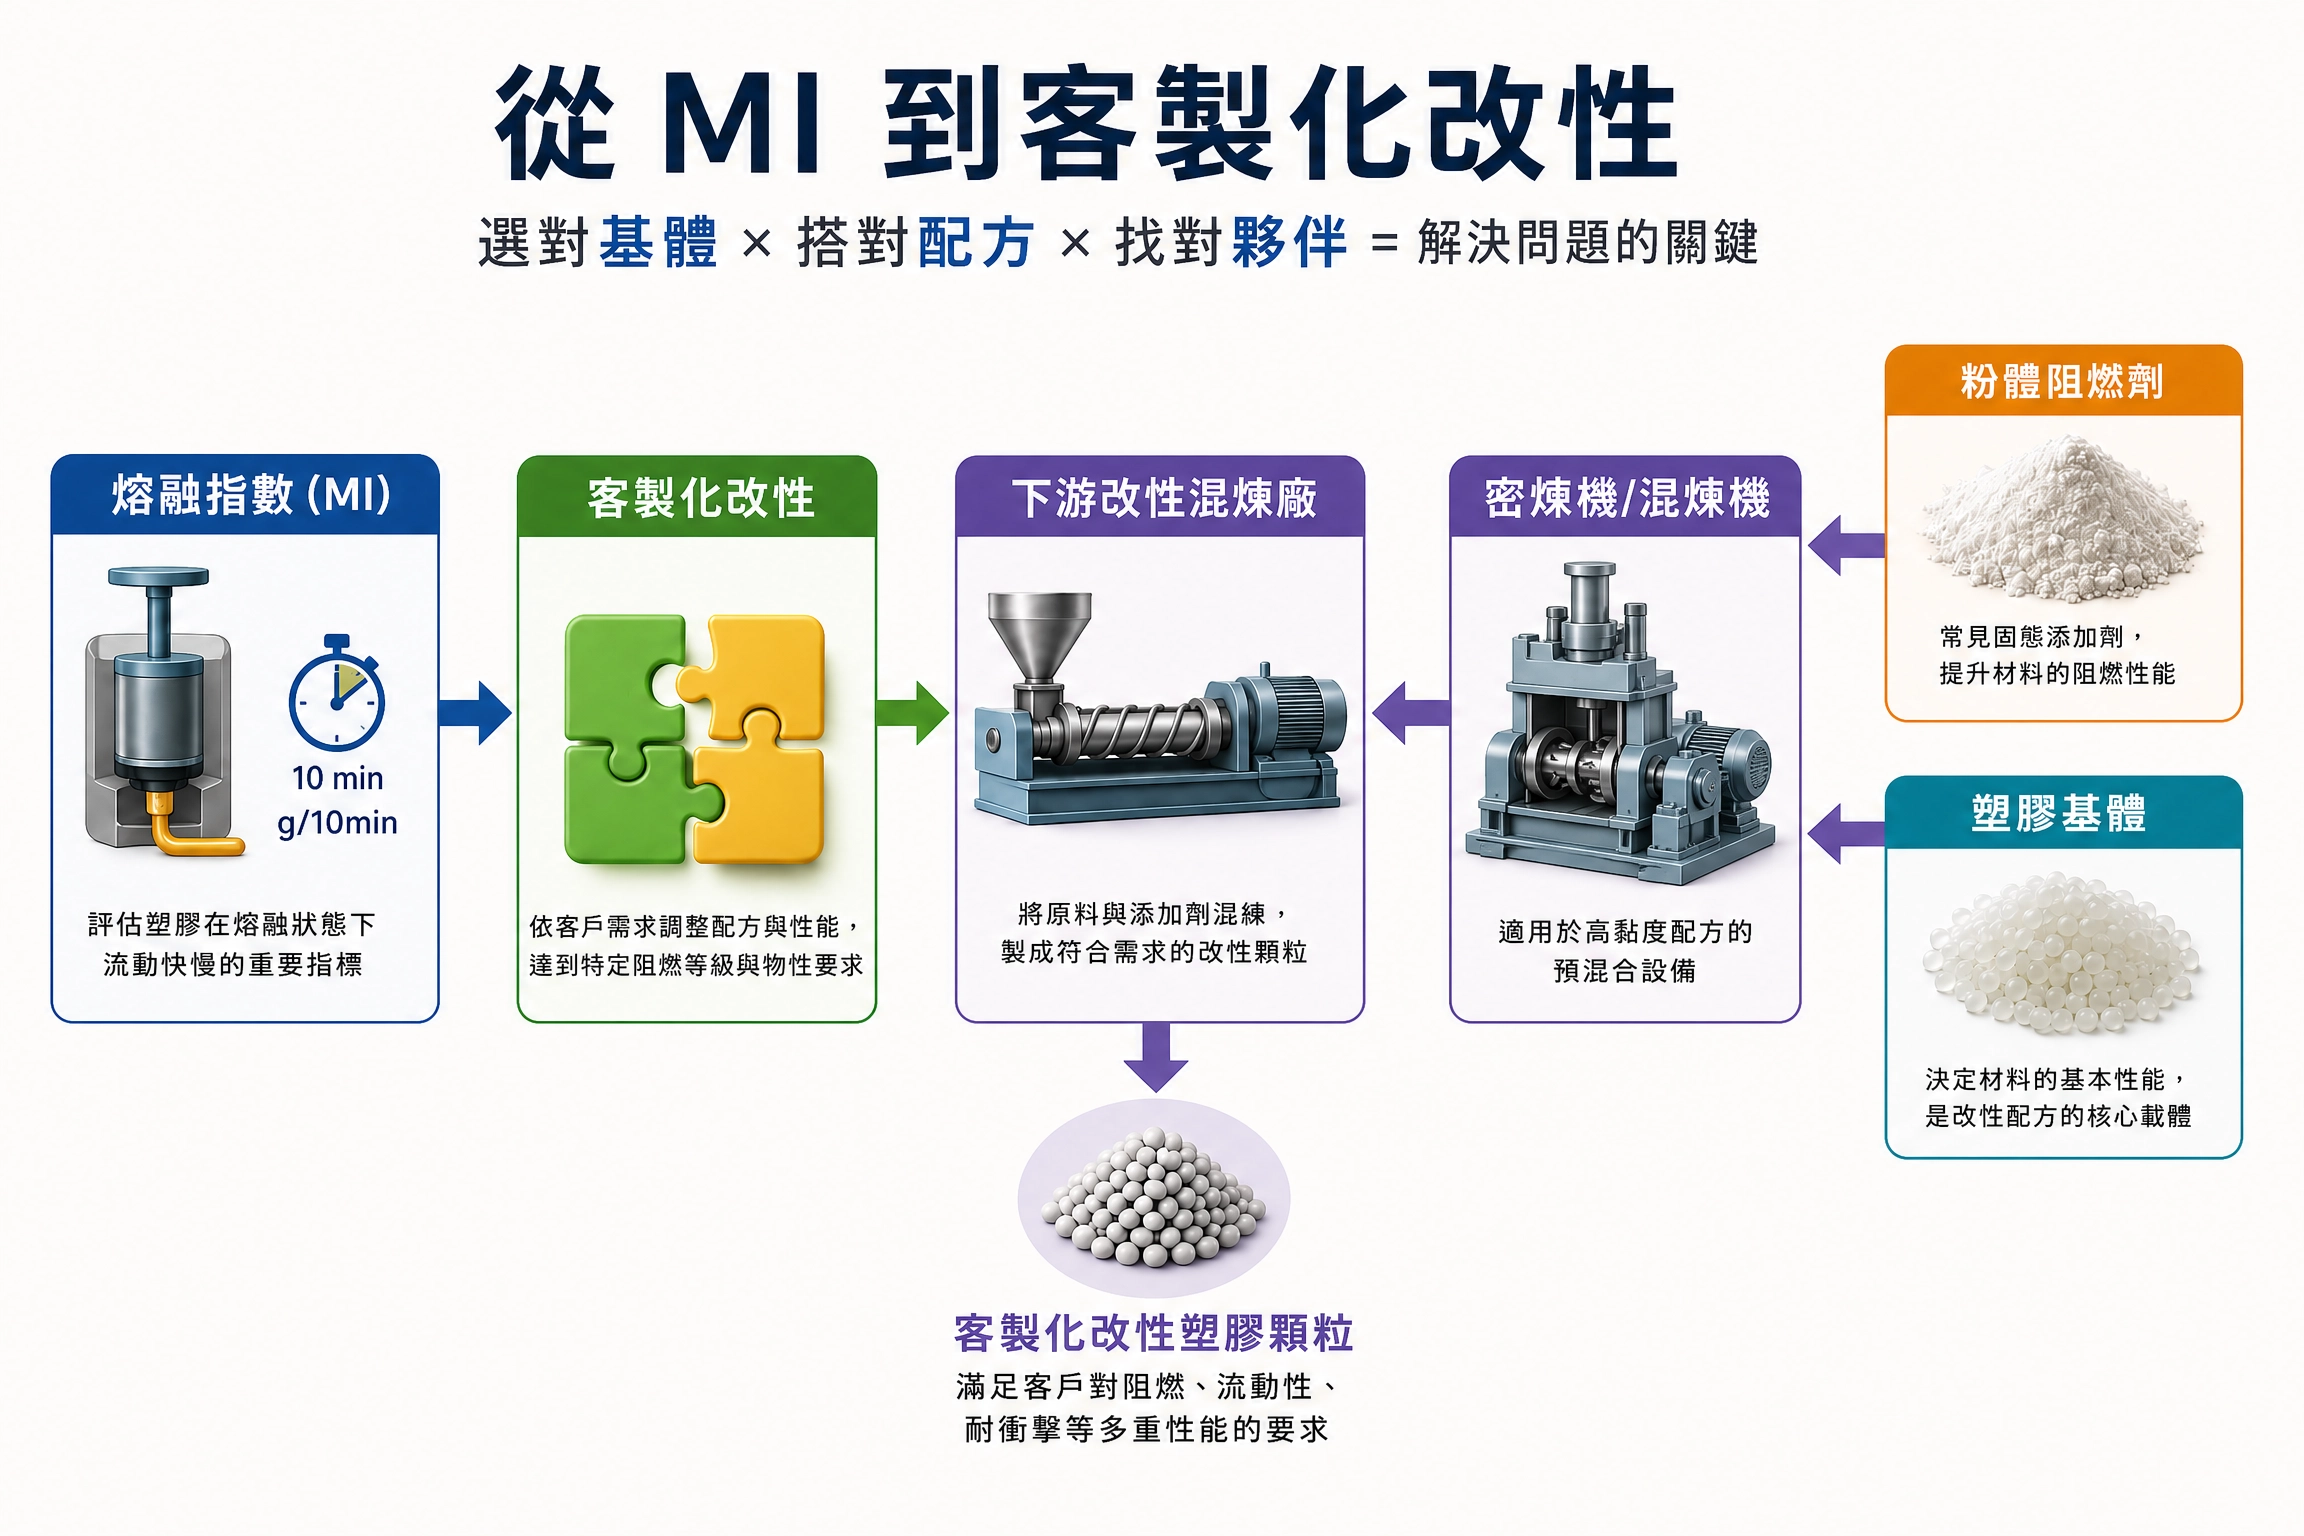
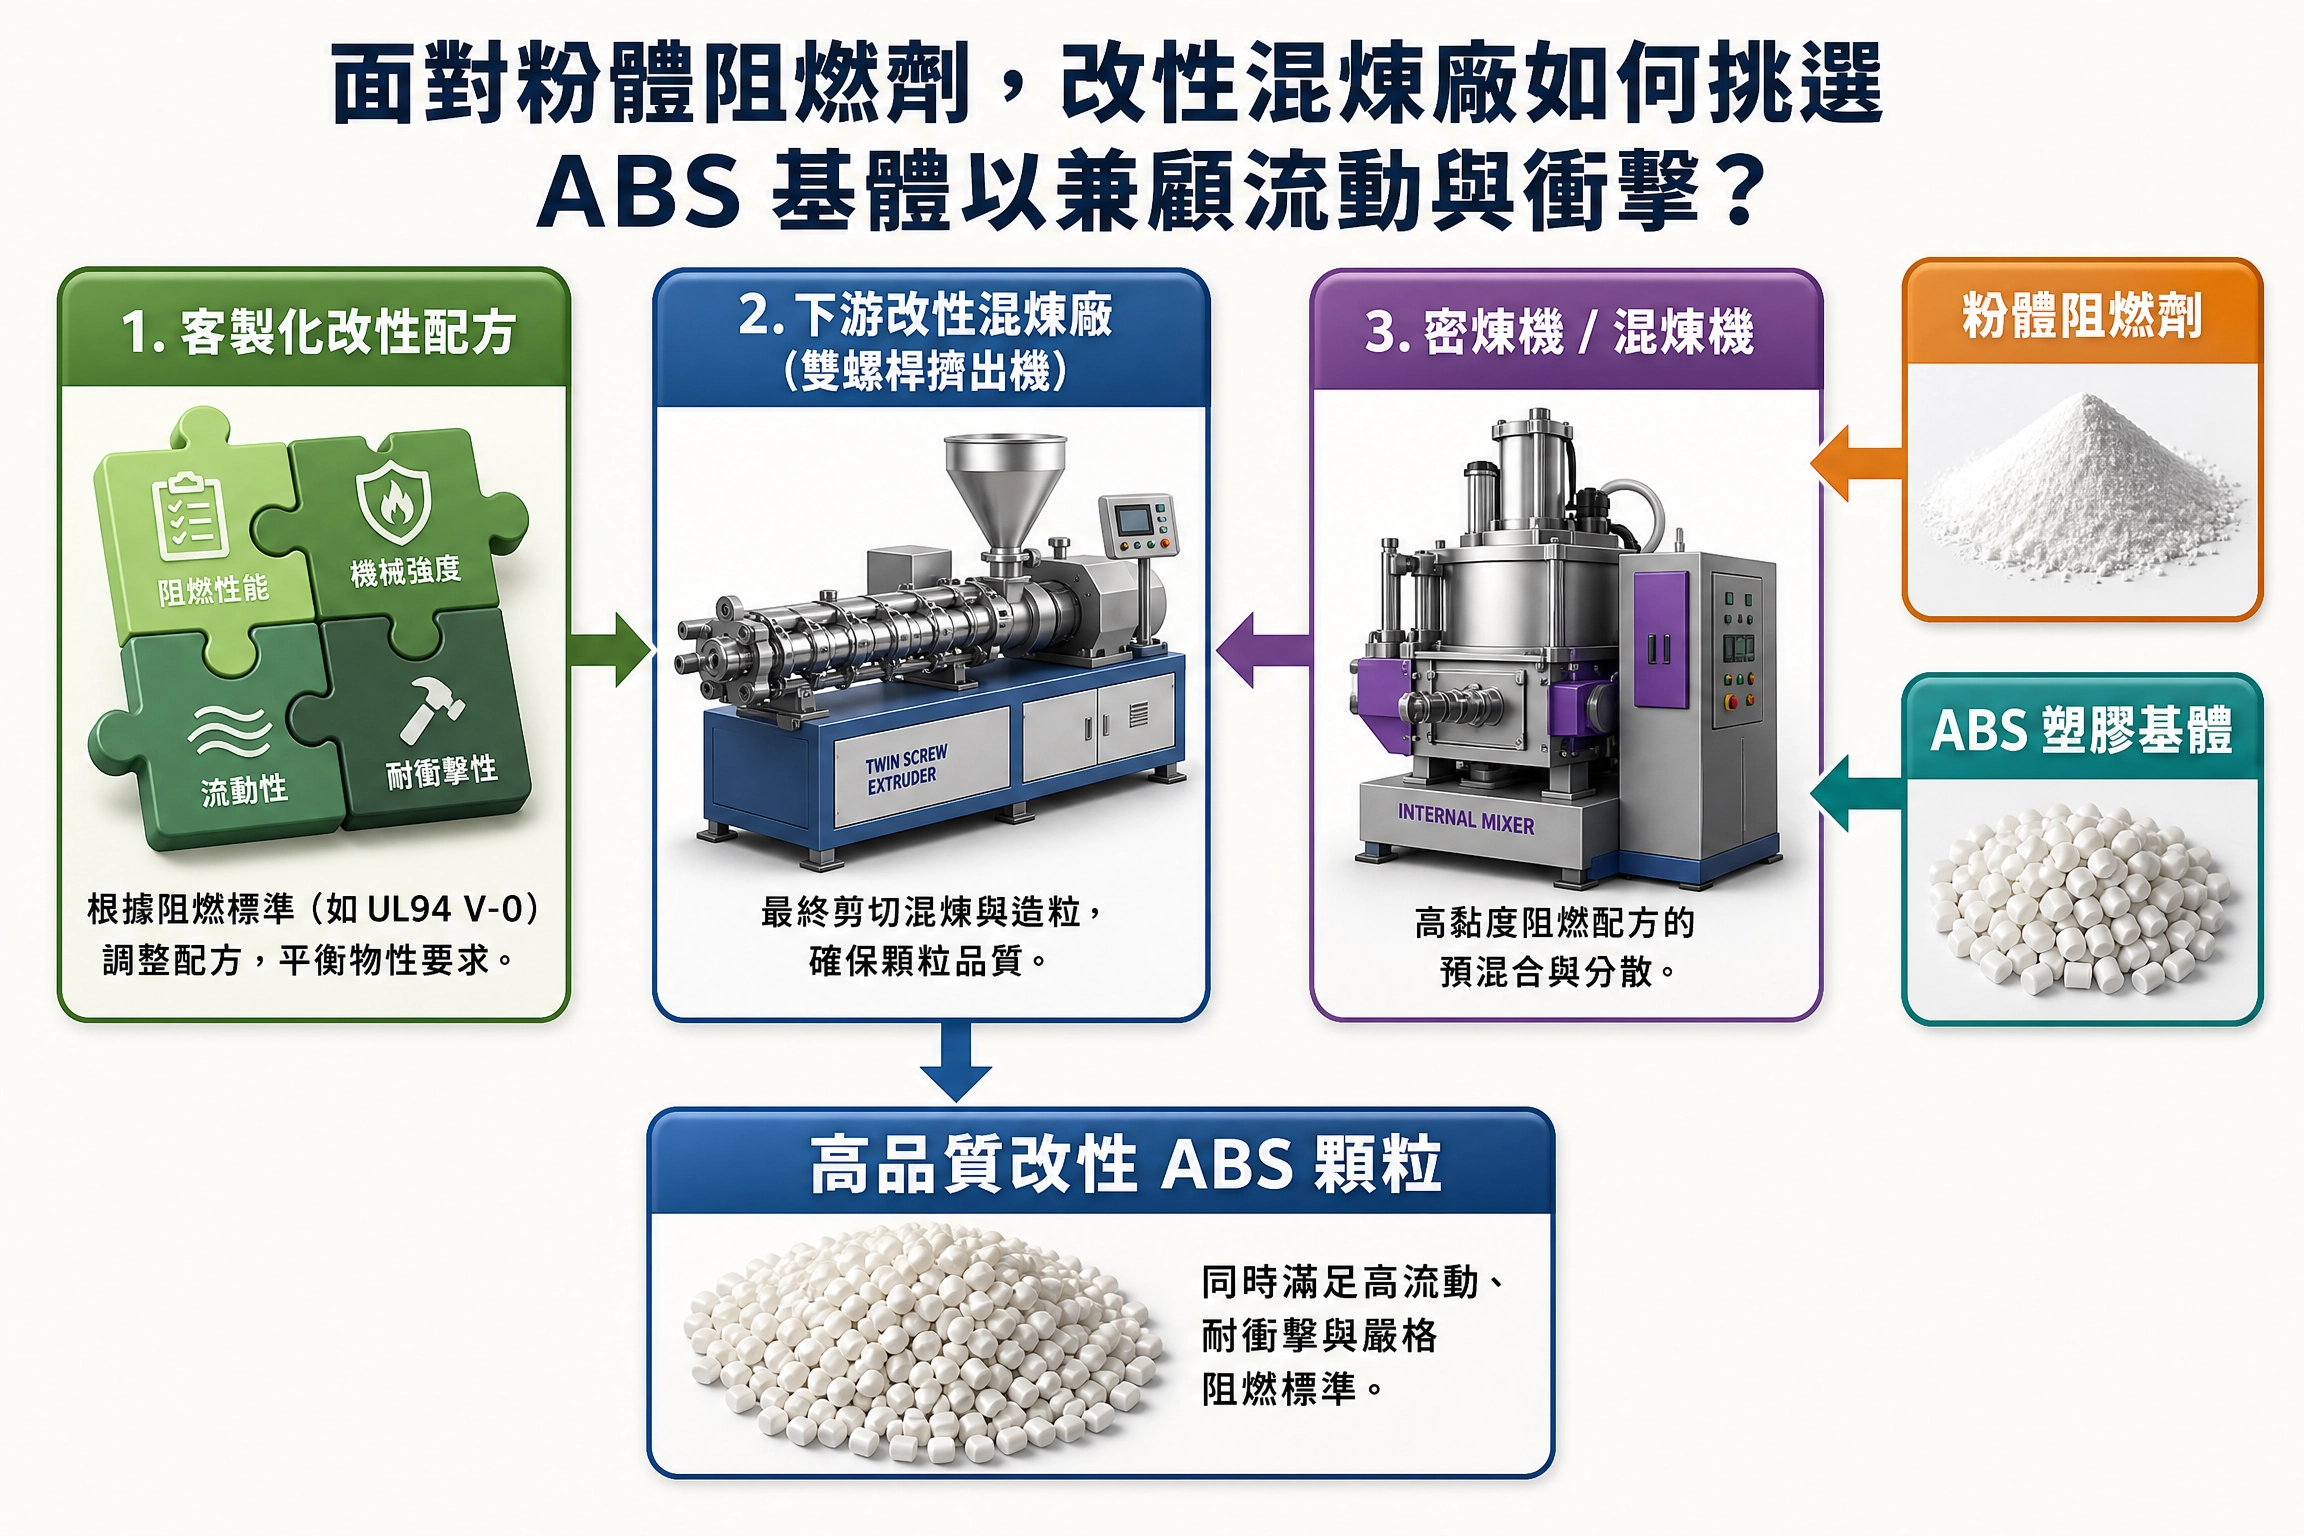
article007v3

diff --git a/MI.html b/MI.html
@@ -1,0 +1,135 @@
+<!DOCTYPE html>
+<html lang="zh-TW">
+<head>
+    <meta charset="UTF-8">
+    <meta name="viewport" content="width=device-width, initial-scale=1.0">
+    <title>面對粉體阻燃劑，改性混煉廠如何挑選 ABS 基體以兼顧流動與衝擊？ | 日將事業</title>
+    <meta name="description" content="探討面對粉體阻燃劑，改性混煉廠如何挑選 ABS 基體以兼顧流動與衝擊？，延伸至企業如何透過 UTFR-NAL 等無銻阻燃方案，擺脫三氧化二銻供應鏈風險與出口限制。">
+    <meta name="keywords" content="三氧化二銻替代品, 阻燃協效劑, NAL, 中國銻礦出口管制, 混煉廠, 粉體, 供應鏈風險管理, 日將事業, UNITETEK">
+    <link rel="canonical" href="https://tzener751.github.io/unitetek-website/MI.html">
+    <meta property="og:image" content="https://tzener751.github.io/unitetek-website/static/article_007.webp">
+    <meta property="og:type" content="article">
+    <link href="https://cdn.jsdelivr.net/npm/bootstrap@5.3.0/dist/css/bootstrap.min.css" rel="stylesheet">
+    <style>
+        .nav-link { color: #007FFF !important; font-weight: bold; font-size: 1.2rem; }
+        
+        .article-body { max-width: 800px; margin: 40px auto; line-height: 1.8; font-size: 1.1rem; }
+
+        
+        .news-image-box {
+            width: 100%;
+            margin: 30px 0;   
+            text-align: center; 
+        }
+
+        .news-image-box img {
+            width: 100%;
+            max-width: 700px;  
+            height: auto;
+            display: inline-block; 
+            border-radius: 4px;
+            border: 1px solid #ddd;
+        }
+    </style>
+</head>
+<body>
+
+    <nav class="navbar navbar-expand-lg bg-white border-bottom py-3">
+        <div class="container">
+            <a class="navbar-brand d-flex align-items-center" href="index.html">
+                <img src="./static/logo.jpeg" alt="Logo" style="height:50px;">
+                <div class="ms-2">
+                    <div style="font-size: 1.2rem; color: #003366; font-weight: bold;">日將事業有限公司</div>
+                    <div style="font-size: 0.7rem; color: #003366; font-weight: bold;">UNITETEK INTERNATIONAL CO., LTD.</div>
+                    <div style="font-size: 0.7rem; color: #000;">無鹵阻燃劑 | 鹵素阻燃協效劑 | VGCF碳管 | 氮化鋁粉 | 熱電材料</div>
+                </div>
+            </a>
+            <div class="navbar-nav ms-auto d-flex flex-row">
+                <a class="nav-link ms-4" href="index.html">首頁</a>
+                <a class="nav-link ms-4" href="about.html">關於日將</a>
+                <a class="nav-link ms-4" href="contact.html">聯絡我們</a>
+                <a class="nav-link ms-4" href="industry_list.html">產業資訊｜產品應用</a>
+            </div>
+        </div>
+    </nav>
+
+    <div class="container">
+        <div class="article-body">
+            <h2 class="fw-bold mb-4">面對粉體阻燃劑，改性混煉廠如何挑選 ABS 基體以兼顧流動與衝擊？</h2>
+
+            <div class="meta-date">
+                🗓 撰寫日期：2026-07-26
+            </div>
+
+            <hr class="my-4">
+            
+            <div class="news-image-box">
+                <img src="./static/article_007.webp" alt="面對粉體阻燃劑，改性混煉廠如何挑選 ABS 基體以兼顧流動與衝擊？">
+            </div>
+            <br>
+            <p>
+                台灣中游樹脂大廠（如奇美、台化）雖然擁有自己的混煉線，但主要供應大宗通用的規格化塑膠顆粒。當終端客戶提出特定防火等級（如 UL 94 V-0）且要求特殊物性時，若需求量不夠大，這類「客製化改性」的合作機會則會找下游改性混煉廠。
+            </p>
+            <p>
+                阻燃劑，無論是固態粉體或液體阻燃劑，只要使用粉體，混煉時就必須考慮物理物性可能的改變。以一般級聚丙烯PP為例，混煉了大量的粉體阻燃劑後，通過客戶要求的特定阻燃標準。但粉體顆粒懸浮在 PP 中造成嚴重的應力集中與界面相容性不良，降低 PP 分子鏈的滑移能力，使PP從原本具韌性的半結晶高分子，退化成像玻璃一樣極度脆化的固體，一開模或頂出就碎裂。
+            </p>
+            <p>
+                主因在於：固體粉體懸浮於熔體中會阻礙流動，導致變黏（流動性變差）、變脆（耐衝擊強度下降）。
+            </p>
+            <p>
+                -
+            </p>
+            <p>
+                塑膠基體以ABS為例，ABS由丙烯腈（Acrylonitrile）、丁二烯 （Butadiene）、苯乙烯 （Styrene）三種單體以不同比例聚合而成，中游樹脂廠根據性能需求開發出四大類：一般級（如 PA-707）、耐熱級（如 PA-777E）、高韌性級（如 PA-747）與高流動性級（如 PA-716 / PA-756）。
+            </p>
+            
+            <p>
+                塑膠基體以ABS為例，ABS由丙烯腈（Acrylonitrile）、丁二烯 （Butadiene）、苯乙烯 （Styrene）三種單體以不同比例聚合而成，中游樹脂廠根據性能需求開發出四大類：一般級（如 PA-707）、耐熱級（如 PA-777E）、高韌性級（如 PA-747）與高流動性級（如 PA-716 / PA-756）。
+            </p>
+
+            <div class="tech-insights-list my-4">
+                    
+                    <div class="p-4 mb-3 rounded shadow-sm border-start border-primary border-4" style="background-color: #f8f9fa;">
+                        <h5 class="fw-bold mb-2 text-dark" style="font-size: 1.1rem;">
+                            當客戶要求「高韌性＋高阻燃」時：
+                        </h5>
+                        <p class="mb-0 text-muted" style="font-size: 1rem; line-height: 1.6; text-align: justify;">
+                            1. 絕不可選擇一般級（PA-707）硬塞粉體阻燃劑，否則衝擊強度會直接嚴重下降，必須以高韌性方向進行基體設計。<br>
+
+                            2. 若直接採用高韌性級（如 PA-747），容易因初始流動性較差而導致加粉體阻燃劑後射出「短射」。<br>
+
+                            3. 應選擇高流動性級（PA-716 / PA-756）作為流動載體，預留足夠的流動性空間給粉體；同時配合外加高膠粉進行衝擊強度的補償，以同時滿足「高流動性、高耐衝擊與 UL 94 V-0 阻燃」的客製化需求！
+                        </p>
+                    </div>
+            </div>
+
+            <p class="mb-4">
+                這篇小小的文章，也許對早已熟知這套配方邏輯的採購/工程師影響不大；但對於剛入行的你，或許是一個不錯的小小思維啟發。
+            </p>
+            <p class="mb-4">
+                這好比張忠謀自傳中提到改良焊接技術的篇章：焊接器的高溫，很可能導致電晶體內部的化學結構有所改變[1]。
+            </p>
+            <p class="mb-4">
+                要先能發現關鍵問題，才有機會解決問題。
+            </p>
+
+            <div class="mt-5 border-top pt-4">
+                    <h6 class="text-secondary fw-bold mb-3" style="letter-spacing: 1px;">參考文獻</h6>
+                    <ol class="list-unstyled text-muted style-references" style="font-size: 0.88rem; line-height: 1.6;">
+                        
+                        <li class="mb-3 position-relative ps-4">
+                            <span class="position-absolute start-0 text-primary fw-bold">[1]</span>
+                            張忠謀（1998）。《張忠謀自傳（上冊）》。天下文化。
+                            <a href="https://doi.org/10.1002/app.54216" target="_blank" class="text-decoration-none text-primary ms-1">https://doi.org/10.1002/app.54216</a>
+                        </li>
+
+                    </ol>
+                </div>
+
+            <hr>
+            <a href="industry_list.html" style="color: blue; text-decoration: none;">← 返回產業資訊列表</a>
+        </div>
+    </div>
+
+</body>
+</html>
